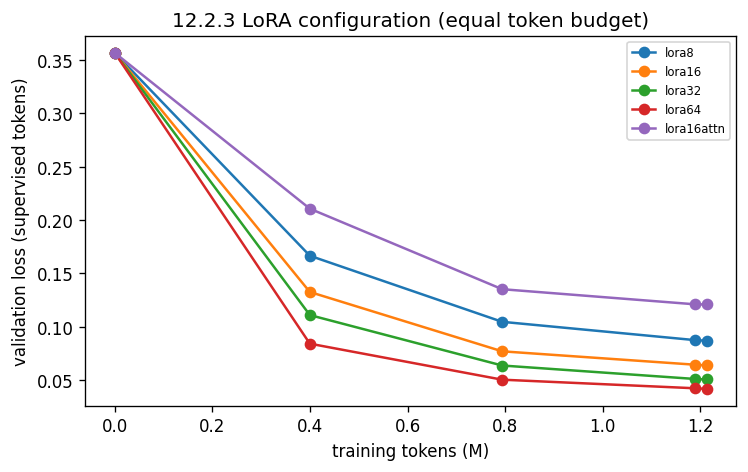
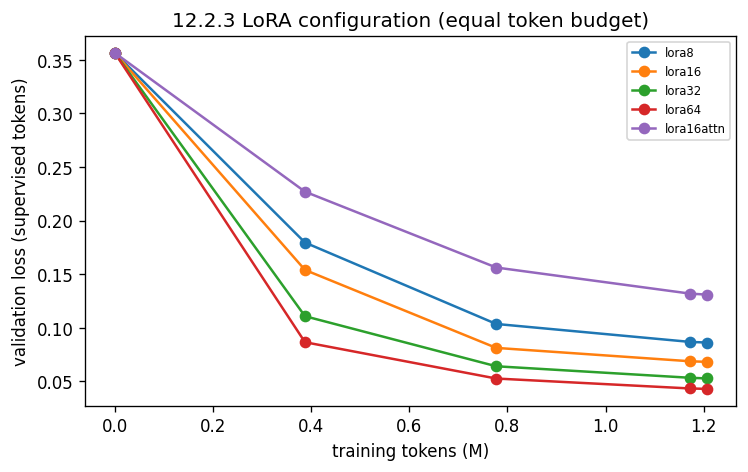
12.2.3: lora64 selected at val loss 0.0429 across 5 equal-budget arms (spread 0.0880)
lora8 0.0862 (22 min, 14.607 GB), lora16 0.0681 (22 min, 14.628 GB), lora32 0.0527 (22 min, 14.995 GB), lora64 0.0429 (22 min, 16.664 GB), lora16attn 0.1309 (17 min, 14.324 GB)

diff --git a/contributing.md b/contributing.md
@@ -514,7 +514,7 @@ becomes the code structure.
 | :---: | :--- | :--- | :--- | :---: |
 | 12.2.1 | Base model choice | 7B code model (Qwen2.5-Coder-7B / CodeLlama-7B / DeepSeek-Coder-6.7B) — benchmark zero-shot first | `src/llm/benchmark.py` + `src/llm/generate.py` + `src/llm/score.py` + `src/llm/functional.py` + `reports/llm_benchmark.md`: every candidate loaded as it would be fine-tuned (NF4, bf16 compute, SDPA - flags read back: use_cache on in config and generation_config, left padding, pad token set), fed identical messages (the template loaded from its git object, so a working-tree edit cannot differ between candidates; Qwen's 176 prompt token counts re-derived 176/176), greedy, over all 176 real validation pairs with one denominator. Each run's batch was chosen from a measured ms/sample sweep on a fixed length-stratified sample. **Qwen/Qwen2.5-Coder-7B-Instruct**: contract 91.5%, syntax 96.6%, executes 58.5%, functional pass@1 **13.6%** (fa_bresler 22.9%, hdbpmn 10.2%), dropped-node rate 31.1%, 2 replies hit the 1,600-token limit; ms/sample by batch x8 7.4 s, x16 17.9 s, x32 3.9 s -> batch 32, split in 1364.8 s; **deepseek-ai/deepseek-coder-6.7b-instruct**: contract 12.5%, syntax 60.8%, executes 26.7%, functional pass@1 **1.1%** (fa_bresler 4.2%, hdbpmn 0.0%), dropped-node rate 89.1%, 73 replies hit the 1,600-token limit; ms/sample by batch x8 26.0 s -> batch 8, split in 5982.8 s. **Selected Qwen/Qwen2.5-Coder-7B-Instruct** on functional pass@1, validation only. Functional pass@1 is 12.3.3's per-diagram test against the drawing (IR automaton for state machines, reachability / order / exclusivity for flowcharts), under which the 12.1.6 reference programs themselves pass only 25.8% of hdbpmn and 27.1% of fa_bresler validation pairs - the ceiling a model imitating them is under. CodeLlama-7B-Instruct was downloaded but not benchmarked: two families were compared and its GPU hour went to the fine-tune | ✅ |
 | 12.2.2 | Quantization | 4-bit NF4 QLoRA to fit RTX 4500 Ada (24 GB) | `src/llm/quant.py` + `src/llm/train.py` + `tests/test_llm_quant.py` + `tests/test_llm_train.py` (11 tests, CPU only) + `reports/llm_quant.md`: `load_model` (NF4, double quant, bf16 compute, SDPA) is the one loader every 12.2 row uses, `profile` runs real forward/backward/AdamW steps over sequence length x micro-batch x arm under a **20 GiB process cap** so the WDDM cliff raises OOM instead of spilling to host memory, and `runtime_checks` reads the flags back from the objects. Qwen2.5-Coder-7B-Instruct: **196 `Linear4bit` nf4 modules, 5.60 GB on device, 40.37 M LoRA parameters (r=16, all seven projections)**. **Measured flags**: SDPA resolves, but torch 2.5.1's Windows build has the flash kernel compiled out (mem-efficient and cuDNN run) and `flash-attn`/`xformers` are absent. **Gradient checkpointing was silently off**: `from_pretrained` returns an eval-mode model and HF checkpoints only when `training`, so the flag read True while 512 tokens x2 took **19.08 GB vs 8.54 GB** in train mode; the profile now records `gradient_checkpointing_effective`. **Saturation is micro-batch 1 at every length** (1024: x1 968, x2 989, x4 938 tokens/s, x8 OOM; 2048: 967 / 918 / OOM; 4096: 888 / OOM) - the step is compute-bound on 4-bit dequantisation, so effective batch comes from accumulation, not VRAM. **Rejected on measurement**: `peft.prepare_model_for_kbit_training` upcasts the 1.09 B-parameter embedding/`lm_head` and norms to fp32 and runs **2.9x slower** (336 vs 968 tokens/s); no checkpointing is 1.41x faster but fits only 1024 x1 at 18.71 GB while real pairs reach 3,696 tokens; unquantised bf16 LoRA is +7% (981 vs 916 tokens/s) at 20.61 GB reserved, over the cap. **The trained configuration fits with headroom**: `train.selected_loss` applies `lm_head` only at completion positions and packs rows first-fit-decreasing into 2,048-token bins with a block-diagonal causal mask and restarted position ids - on real packed train rows **916 tokens/s at 8.41 GB allocated / 10.83 GB reserved of 24 GiB (~13 GB free)**, against 10.30 GB with full logits. **Packing isolation was verified, not assumed**: three examples packed score 0.7206 vs 0.7191 apart, and the same row under a plain causal mask scores 2.4969; a tiny-Qwen2 CPU test pins packed == apart and mutation-tests the mask. Examples longer than the bin get their own uncut row (97 of 655), 0 truncated | ✅ |
-| 12.2.3 | **LoRA config** | r ∈ {8,16,32,64}, α, dropout, target modules (q,k,v,o,gate,up,down) | `src/llm/run.py` + `src/llm/train.py` + `src/llm/pipeline.py` + `configs/llm.yaml` + `reports/llm_lora_sweep.md` + `reports/figures/p12_lora_sweep.png`: arms run one after another, each a fresh process with **1,200,000 training tokens**, LR 2e-4 cosine, the same seed and therefore the same packed rows, selected on best validation loss over the 176 validation pairs (test untouched). Best validation loss: lora8 0.0869 (22 min, 21.374 GB), lora16 0.0639 (22 min, 21.395 GB), lora32 0.0507 (22 min, 20.674 GB), lora64 0.0419 (22 min, 20.722 GB), lora16attn 0.1209 (17 min, 21.089 GB). **Selected lora64**; the spread across all five arms is 0.0790 nats, starting from 0.3565 before training. Each arm trained at 12.2.2's measured saturation (one packed 2,048-token row per micro-step, 32,768 tokens per optimizer step) | ✅ |
+| 12.2.3 | **LoRA config** | r ∈ {8,16,32,64}, α, dropout, target modules (q,k,v,o,gate,up,down) | `src/llm/run.py` + `src/llm/train.py` + `src/llm/pipeline.py` + `configs/llm.yaml` + `reports/llm_lora_sweep.md` + `reports/figures/p12_lora_sweep.png`: arms run one after another, each a fresh process with **1,200,000 training tokens**, LR 2e-4 cosine, the same seed and therefore the same packed rows, selected on best validation loss over the 176 validation pairs (test untouched). Best validation loss: lora8 0.0862 (22 min, 14.607 GB), lora16 0.0681 (22 min, 14.628 GB), lora32 0.0527 (22 min, 14.995 GB), lora64 0.0429 (22 min, 16.664 GB), lora16attn 0.1309 (17 min, 14.324 GB). **Selected lora64**; the spread across all five arms is 0.0880 nats, starting from 0.3565 before training. Each arm trained at 12.2.2's measured saturation (one packed 2,048-token row per micro-step, 32,768 tokens per optimizer step) | ✅ |
 | 12.2.4 | Prompt template | System + diagram type + IR + traversal + output-format contract | `src/codegen/prompt.py` + `tests/test_codegen_prompt.py` (20 tests) + `reports/codegen_prompt.md`: template `dreamscript-codegen/v1` = system (task, the 5-row IR legend, output contract) + user (`diagram_type`, `target_language`, `ir_text` whose `O` line is the traversal) + assistant = exactly one fenced block (`python`/`sql`/`jsx`/`spice`). **Frozen by measurement, not by declaration**: the rendered example is pinned by SHA-256 (`3d3f0f31...`) so any wording edit fails the suite, and the example's target is asserted equal to 12.1.6's real emitter output for its IR. **Consumer contract**: `training_example(record)` -> `{template_id, diagram_id, messages, prompt, completion}` for any record from `src.codegen.pairs.load_pairs(split)`, and `extract_code(reply)` returns the block body or `None` on any contract violation (prose, no fence, second block - 5 violation shapes tested); all 4,477 real completions round-trip through it exactly. **Lengths measured with Qwen2.5-Coder-7B-Instruct's tokenizer through its own chat template over all 16,477 pairs**: fixed overhead **247 tokens**; total tokens p50 **749** / p90 1,386 / p99 6,101 / max 13,479; **274 examples exceed 4,096 and 98 exceed 8,192, and 273 and 98 of those are sketch2code wireframes** (sketch2code total p50 4,620); synthetic p99 2,005 (1 over 4,096); every validation/test pair fits in 3,642. **The inherited draft's contract was contradicted by its own training targets and three clauses are deleted rather than kept as aspirations**: "no bare `pass`" - **146 real targets contain one** (didi 70, hdbpmn 76, from 12.1.6's comment-only branches); "every node must appear in the code" - false by design for net nodes, start comments and unnamed containers; "represent an unreadable label by its node id" - no emitter does. Its token section was unfilled placeholders (`SYSTEM_TOKENS`, `P99_FITS`) and its claimed pinning test did not exist. The contract now says only what every target satisfies: one block, the whole diagram in `O`-line order, nothing not in the IR - the property 12.1.1 (no diagram id in code) and 12.1.4 (columns and nets moved out of attrs) were rebuilt to make true. The wireframe fence is `jsx` rather than the pair field `react`. **Found while pinning, recorded and not fixed here**: 12.1.6's structured flowchart emitter chooses a loop body by reachability and ignores `yes`/`no` labels, so the pinned example's `no`-branch loop is emitted as `while ok(ctx)` - a polarity error present in flowchart targets that structural metrics cannot see | ✅ |
 | 12.2.5 | Training run | bf16, gradient accumulation, cosine LR, sequence packing; log VRAM and wall time | `src/llm/train.py` + `src/llm/run.py` + `configs/llm.yaml` + `reports/llm_train.md` + `reports/figures/p12_train_loss.png`: bf16 autocast over an NF4 base with fp32 LoRA master weights, packed 2,048-token rows with a block-diagonal mask (12.2.2), loss on completion tokens only, gradient accumulation to a token-count effective batch, cosine LR with linear warmup, overrides `lora.r=64 lora.alpha=128 data.synthetic_ratio=1.0 train.epochs=1.0 train.eval_every=50`. **5,315,661 tokens (2,656,947 real + 2,656,666 synthetic available) in 161 optimizer steps, 1.35 h wall, 1096 tokens/s, peak 12.828 GB allocated / 20.722 GB reserved.** Validation loss 0.3565 -> best 0.0109 at step 161 (final 0.01091). Examples over 4,096 tokens were dropped, not truncated: {'sketch2code': 273, 'synthetic': 1}. Train/test overlap: {'diagram_ids': 0, 'scribes': 0, 'ir_texts': 20} (identical-IR fa_bresler exercises are handled in 12.2.7). Adapter at `` (gitignored) | ✅ |
 | 12.2.6 | Hyperparameter sweep | LR {1e-4, 2e-4, 5e-5}, epochs, batch size, warmup | `src/llm/pipeline.py` + `src/llm/run.py` + `reports/llm_hparam_sweep.md` + `reports/figures/p12_hparam_sweep.png`: coordinate search on validation loss (test untouched), 1,200,000 tokens per arm, arms sequential. **LR**: lr2e-4 0.0419, lr1e-4 0.0563, lr5e-5 0.0977 -> lr2e-4. **Warmup / tokens per optimizer step / synthetic mix** against that: lr2e-4 0.0419, warmup0.1 0.0434, tok65k 0.0582, syn1x 0.0273 -> **syn1x**. **Budget**: the winner at 2x tokens reaches 0.0173 against 0.0273 (-0.0101), which is the evidence the full run's single epoch rests on. Full-run overrides: `lora.r=64 lora.alpha=128 data.synthetic_ratio=1.0`. Every arm logs wall time, tokens/s and peak VRAM in the report table | ✅ |

diff --git a/reports/llm_lora_sweep.md b/reports/llm_lora_sweep.md
@@ -4,11 +4,11 @@ Base `Qwen/Qwen2.5-Coder-7B-Instruct`, NF4, LR 2e-4, cosine, 1,200,000 training 
 
 | arm | overrides | val loss @0 | best val loss | best step | steps | tokens | wall min | peak alloc GB | peak reserved GB | tokens/s |
 | :--- | :--- | :--- | :--- | :--- | :--- | :--- | :--- | :--- | :--- | :--- |
-| lora8 | lora.r=8 lora.alpha=16 | 0.35647 | 0.08694 | 37 | 37 | 1212856 | 22.0 | 10.294 | 21.374 | 918.0 |
-| lora16 | lora.r=16 lora.alpha=32 | 0.35647 | 0.06391 | 37 | 37 | 1212856 | 22.0 | 10.646 | 21.395 | 919.0 |
-| lora32 | lora.r=32 lora.alpha=64 | 0.35647 | 0.05066 | 37 | 37 | 1212856 | 22.1 | 11.274 | 20.674 | 914.0 |
-| lora64 | lora.r=64 lora.alpha=128 | 0.35647 | 0.04188 | 37 | 37 | 1212856 | 22.2 | 12.559 | 20.722 | 911.0 |
-| lora16attn | lora.r=16 lora.alpha=32 lora.targets=[q_proj,k_proj,v_proj,o_proj] | 0.35647 | 0.1209 | 37 | 37 | 1212856 | 16.7 | 10.132 | 21.089 | 1211.0 |
+| lora8 | lora.r=8 lora.alpha=16 | 0.35647 | 0.08617 | 37 | 37 | 1206048 | 22.0 | 10.294 | 14.607 | 914.0 |
+| lora16 | lora.r=16 lora.alpha=32 | 0.35647 | 0.06814 | 37 | 37 | 1206048 | 21.9 | 10.64 | 14.628 | 917.0 |
+| lora32 | lora.r=32 lora.alpha=64 | 0.35647 | 0.05269 | 37 | 37 | 1206048 | 22.0 | 11.269 | 14.995 | 912.0 |
+| lora64 | lora.r=64 lora.alpha=128 | 0.35647 | 0.04293 | 37 | 37 | 1206048 | 22.1 | 12.562 | 16.664 | 908.0 |
+| lora16attn | lora.r=16 lora.alpha=32 lora.targets=[q_proj,k_proj,v_proj,o_proj] | 0.35647 | 0.13089 | 37 | 37 | 1206048 | 16.7 | 10.133 | 14.324 | 1206.0 |
 
 **Selected: lora64** (lowest best validation loss).
 
